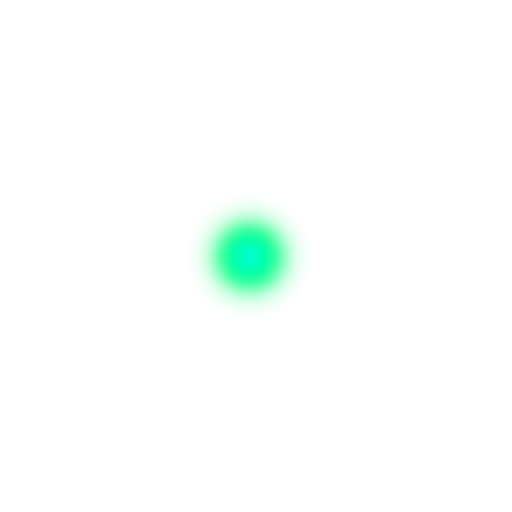
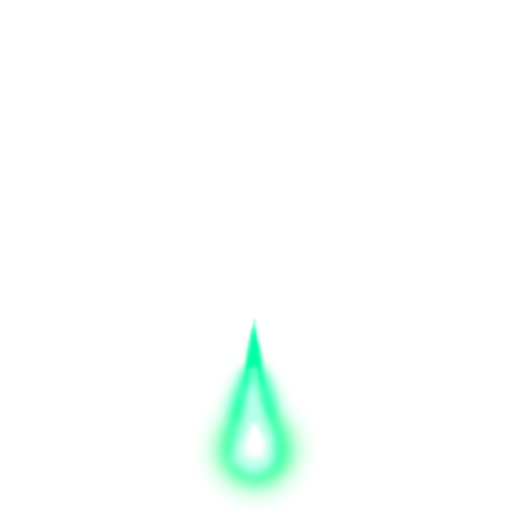
Hien: new awesome bullet artwork by Mr. Jose

Changed region(s): [[0.375, 0.4062, 0.5938, 1.0]]

diff --git a/Poseidon/Poseidon/Bullets/DamageBullet.cs b/Poseidon/Poseidon/Bullets/DamageBullet.cs
@@ -17,6 +17,8 @@ namespace Poseidon {
         Camera gameCamera;
         GameMode gameMode;
 
+        float forwardDir = 0;
+
         public void initialize(Vector3 position, Vector3 headingDirection, float speed, float strength, float strengthUp, GameMode gameMode)
         {
             base.initialize(position, headingDirection, speed);
@@ -43,12 +45,18 @@ namespace Poseidon {
             }
 
             laserBeamTexture = IngamePresentation.laserBeamTexture;
+
+            Vector3 direction2D = graphicDevice.Viewport.Project(position + headingDirection, gameCamera.ProjectionMatrix, gameCamera.ViewMatrix, Matrix.Identity)
+                - graphicDevice.Viewport.Project(position, gameCamera.ProjectionMatrix, gameCamera.ViewMatrix, Matrix.Identity);
+            direction2D.Normalize();
+            this.forwardDir = (float)Math.Atan2(direction2D.X, direction2D.Y);
         }
 
         public void initialize(Vector3 position, Vector3 headingDirection, float speed, int damage, BaseEnemy shooter) {
             base.initialize(position, headingDirection, speed);
             this.damage = damage;
             this.shooter = shooter;
+
         }
 
         public override void draw(Matrix view, Matrix projection, Camera gameCamera, string techiniqueName)
@@ -62,8 +70,9 @@ namespace Poseidon {
                 Vector2 laserBeamPos;
                 laserBeamPos.X = screenPos.X;
                 laserBeamPos.Y = screenPos.Y;
+
                 spriteBatch.Begin();
-                spriteBatch.Draw(laserBeamTexture, laserBeamPos, null, Color.White, 0, new Vector2(laserBeamTexture.Width / 2, laserBeamTexture.Height / 2), 0.2f, SpriteEffects.None, 1);
+                spriteBatch.Draw(laserBeamTexture, laserBeamPos, null, Color.White, -forwardDir, new Vector2(laserBeamTexture.Width / 2, laserBeamTexture.Height / 2), 0.2f, SpriteEffects.None, 1);
                 spriteBatch.End();
                 if (gameMode == GameMode.MainGame)
                 {

diff --git a/Poseidon/Poseidon/Bullets/HealthBullet.cs b/Poseidon/Poseidon/Bullets/HealthBullet.cs
@@ -19,6 +19,7 @@ namespace Poseidon
         GraphicsDevice graphicDevice;
         Camera gameCamera;
         GameMode gameMode;
+        float forwardDir;
 
         public void initialize(Vector3 position, Vector3 headingDirection, float speed, float strength, float strengthUp, GameMode gameMode)
         {
@@ -46,6 +47,12 @@ namespace Poseidon
             }
 
             laserBeamTexture = IngamePresentation.healLaserBeamTexture;
+
+
+            Vector3 direction2D = graphicDevice.Viewport.Project(position + headingDirection, gameCamera.ProjectionMatrix, gameCamera.ViewMatrix, Matrix.Identity)
+                - graphicDevice.Viewport.Project(position, gameCamera.ProjectionMatrix, gameCamera.ViewMatrix, Matrix.Identity);
+            direction2D.Normalize();
+            this.forwardDir = (float)Math.Atan2(direction2D.X, direction2D.Y);
         }
 
         public override void draw(Matrix view, Matrix projection)
@@ -55,7 +62,7 @@ namespace Poseidon
             laserBeamPos.X = screenPos.X;
             laserBeamPos.Y = screenPos.Y;
             spriteBatch.Begin();
-            spriteBatch.Draw(laserBeamTexture, laserBeamPos, null, Color.White, 0, new Vector2(laserBeamTexture.Width / 2, laserBeamTexture.Height / 2), 0.2f, SpriteEffects.None, 1);
+            spriteBatch.Draw(laserBeamTexture, laserBeamPos, null, Color.White, -forwardDir, new Vector2(laserBeamTexture.Width / 2, laserBeamTexture.Height / 2), 0.2f, SpriteEffects.None, 1);
             spriteBatch.End();
             if (gameMode == GameMode.MainGame)
             {

diff --git a/Poseidon/Poseidon/GraphicEffects/EffectHelpers.cs b/Poseidon/Poseidon/GraphicEffects/EffectHelpers.cs
@@ -326,8 +326,8 @@ namespace Poseidon
             //or too bright
             //level 5 seems to be too bright
             if (PlayGameScene.currentLevel == 5 && HydroBot.gameMode == GameMode.MainGame)
-                envFactor = MathHelper.Clamp(envFactor, 0.75f, 0.76f);
-            else envFactor = MathHelper.Clamp(envFactor, 0.75f, 0.90f);
+                envFactor = MathHelper.Clamp(envFactor, 0.35f, 0.75f);
+            else envFactor = MathHelper.Clamp(envFactor, 0.35f, 0.90f);
             //envFactor = 1.0f;
             if (HydroBot.gameMode == GameMode.MainGame)
             {

diff --git a/Poseidon/Poseidon/PoseidonGame.cs b/Poseidon/Poseidon/PoseidonGame.cs
@@ -139,8 +139,8 @@ namespace Poseidon
 
             if (capturingCinematic || capturingGameTrailer)
                 graphics.IsFullScreen = false;
-            else graphics.IsFullScreen = true;
-
+            else graphics.IsFullScreen = false;
+            //graphics.IsFullScreen = false;
             Content.RootDirectory = "Content";
 
         }

diff --git a/Poseidon/Poseidon/Miscellaneous/HydroBot.cs b/Poseidon/Poseidon/Miscellaneous/HydroBot.cs
@@ -531,7 +531,7 @@ namespace Poseidon
             //currentEnergy = 30;
             //strength = 2000;
             //speed = 15;
-            //shootingRate = 15;
+            shootingRate = 3;
             
 
             //goodWillBarActivated = true;
